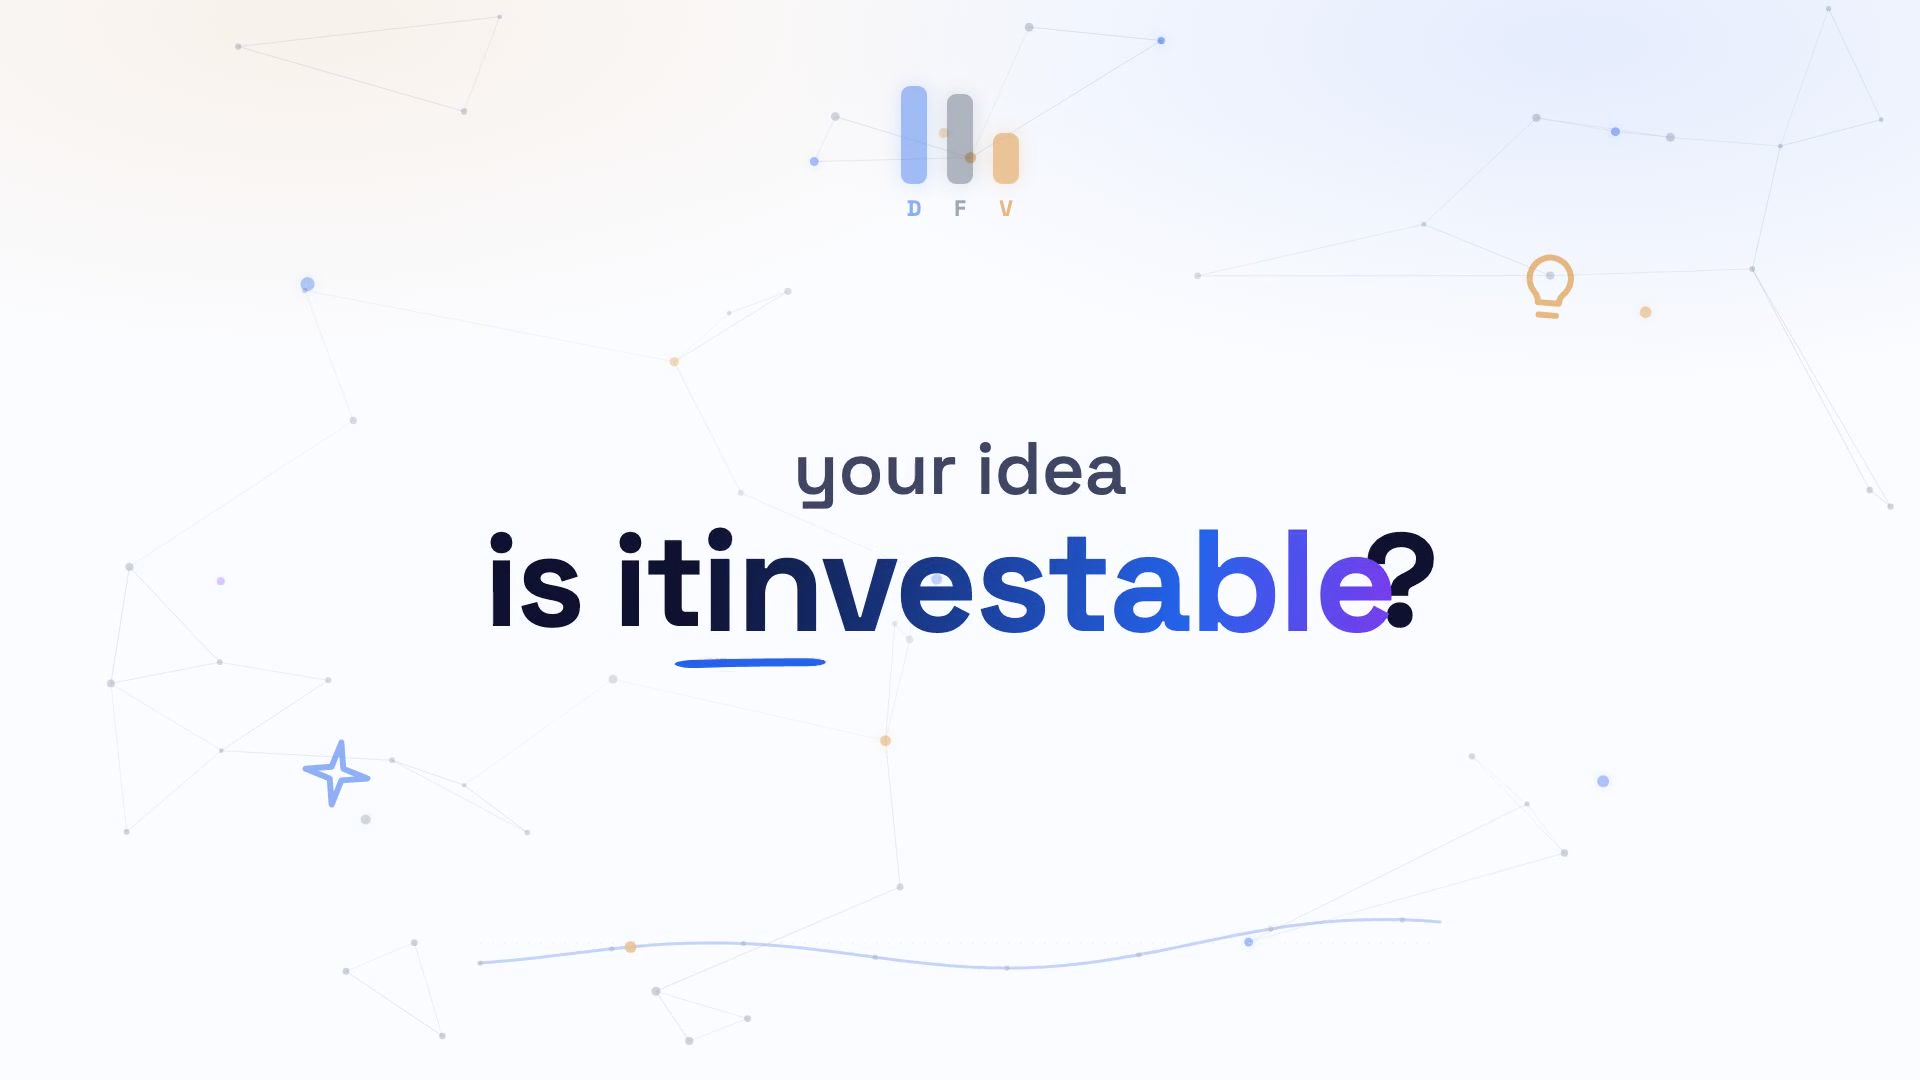
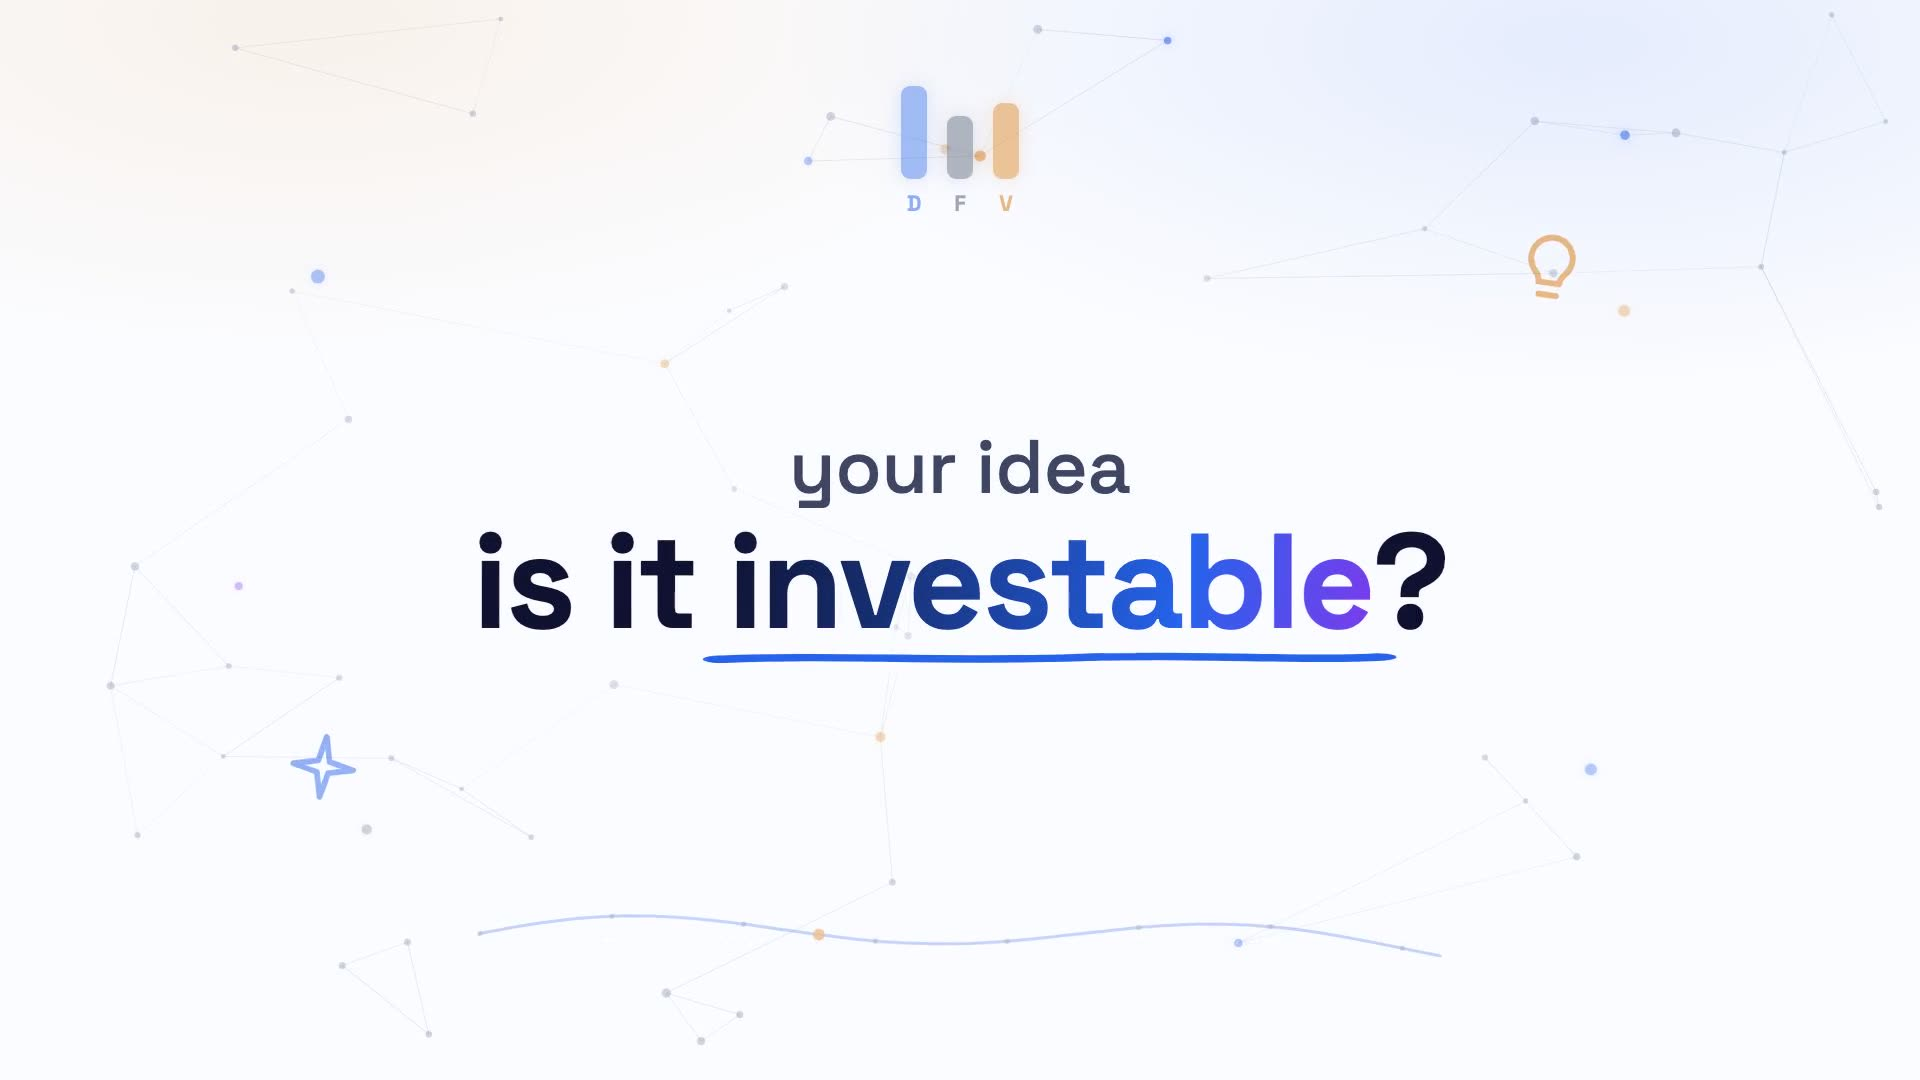
Promo poster reshot; split the three sub-page routes
The poster was captured mid-animation, while the emphasized word was
still sliding in, so it read "is itinvestable?" — the video itself is
fine, only the still was wrong. Re-grabbed from t=2.3s, where the line
has settled and the underline is fully drawn.

Route splitting: Analyze / Insight / Materials are lazy, Home stays in
the entry chunk since it is the landing view. Entry drops 785 -> 520 kB
(gzip 279 -> 176). The chunks are warmed on idle, so the first
navigation is still instant and the Suspense fallback never shows.

Also dropped gsap and @studio-freight/lenis — neither was imported.

Claude-Session: https://claude.ai/code/session_01ASSFp2XYc5mBjWmGax15d2

diff --git a/src/App.tsx b/src/App.tsx
@@ -1,14 +1,22 @@
-import { useEffect, useState } from 'react'
+import { Suspense, lazy, useEffect, useState } from 'react'
 import { motion, AnimatePresence } from 'framer-motion'
 import './App.css'
 import Home from './Home'
-import Analyze from './Analyze'
-import Insight from './Insight'
-import Materials from './Materials'
 import { LangProvider } from './i18n'
 import { viewFromLocation, routeTo, type View } from './router'
 
+// Home ships in the entry chunk (it is the landing view); the three sub-pages
+// are split out so a first visit does not download them.
+const Analyze = lazy(() => import('./Analyze'))
+const Insight = lazy(() => import('./Insight'))
+const Materials = lazy(() => import('./Materials'))
+
 const EASE = [0.2, 0.7, 0.2, 1] as const
+
+/** Holds the viewport while a split chunk lands, so the page does not collapse to zero height. */
+function ViewFallback() {
+  return <div style={{ minHeight: '100svh', background: 'var(--bg)' }} aria-busy="true" />
+}
 
 export default function App() {
   // view lives in the URL path (/, /analyze, /insight, /deck) so every page is shareable + indexable
@@ -23,6 +31,15 @@ export default function App() {
   useEffect(() => {
     if (view !== 'home') window.scrollTo(0, 0) // a sub-page always opens at the top
   }, [view])
+  // Warm the split chunks once the landing view is idle, so the first
+  // navigation is instant and the Suspense fallback never actually shows.
+  useEffect(() => {
+    const warm = () => { void import('./Analyze'); void import('./Insight'); void import('./Materials') }
+    const ric = window.requestIdleCallback
+    if (ric) { const id = ric(warm, { timeout: 3000 }); return () => window.cancelIdleCallback?.(id) }
+    const t = setTimeout(warm, 1800)
+    return () => clearTimeout(t)
+  }, [])
 
   return (
     <LangProvider>
@@ -46,7 +63,7 @@ export default function App() {
           exit={{ opacity: 0, x: 80 }}
           transition={{ duration: 0.5, ease: EASE }}
         >
-          <Materials />
+          <Suspense fallback={<ViewFallback />}><Materials /></Suspense>
         </motion.div>
       )}
       {view === 'analyze' && (
@@ -57,7 +74,7 @@ export default function App() {
           exit={{ opacity: 0, x: 80 }}
           transition={{ duration: 0.5, ease: EASE }}
         >
-          <Analyze onBack={() => setView('home')} />
+          <Suspense fallback={<ViewFallback />}><Analyze onBack={() => setView('home')} /></Suspense>
         </motion.div>
       )}
       {view === 'insight' && (
@@ -68,7 +85,7 @@ export default function App() {
           exit={{ opacity: 0, x: 80 }}
           transition={{ duration: 0.5, ease: EASE }}
         >
-          <Insight onBack={() => routeTo('home')} onAnalyze={() => routeTo('analyze')} />
+          <Suspense fallback={<ViewFallback />}><Insight onBack={() => routeTo('home')} onAnalyze={() => routeTo('analyze')} /></Suspense>
         </motion.div>
       )}
     </AnimatePresence>
